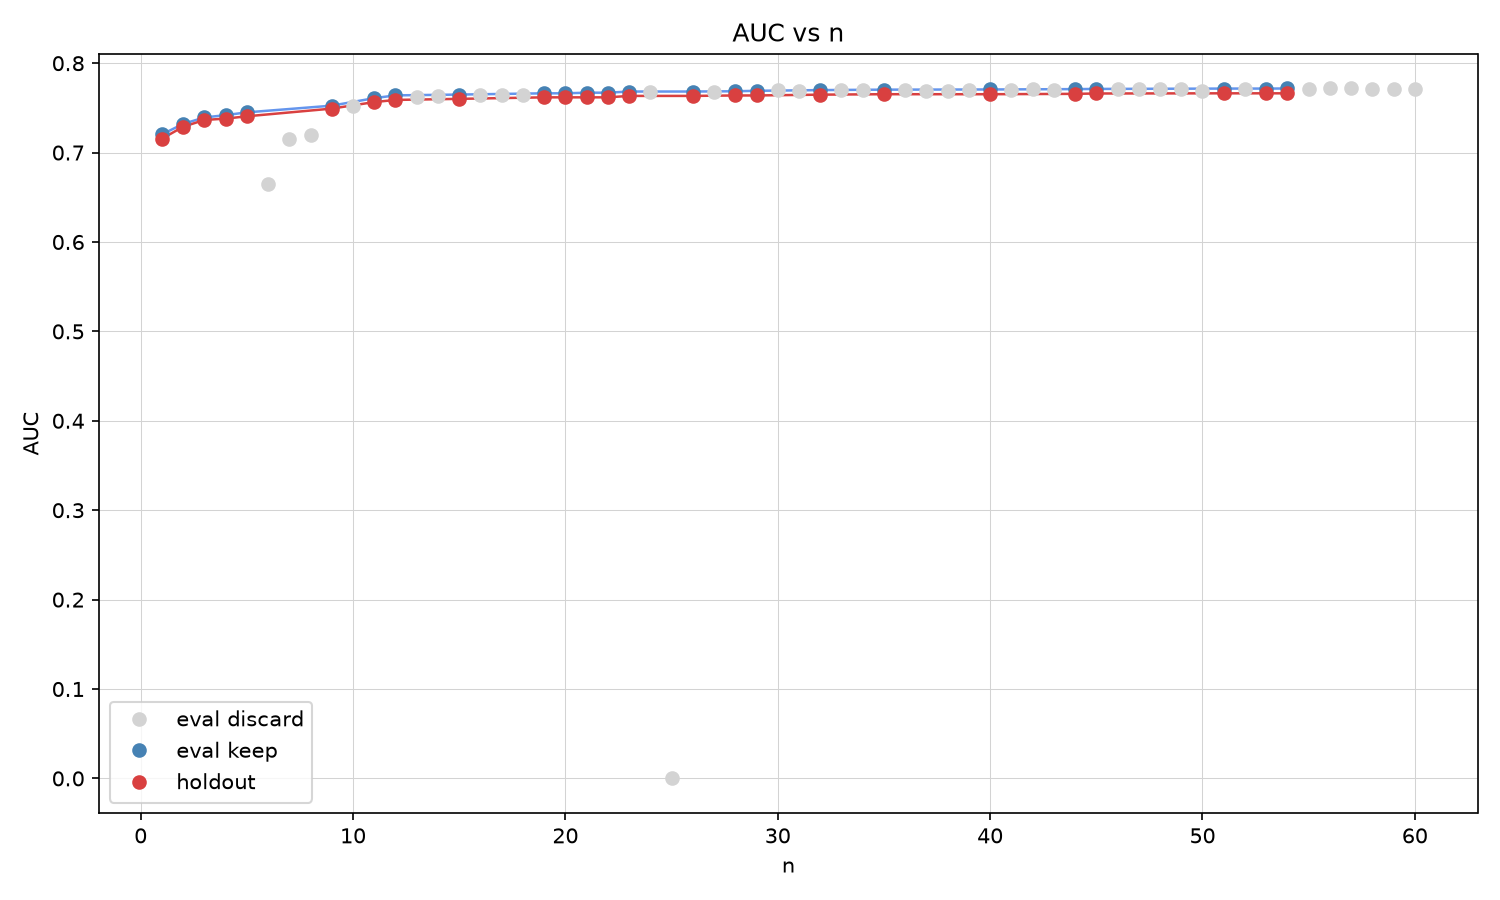
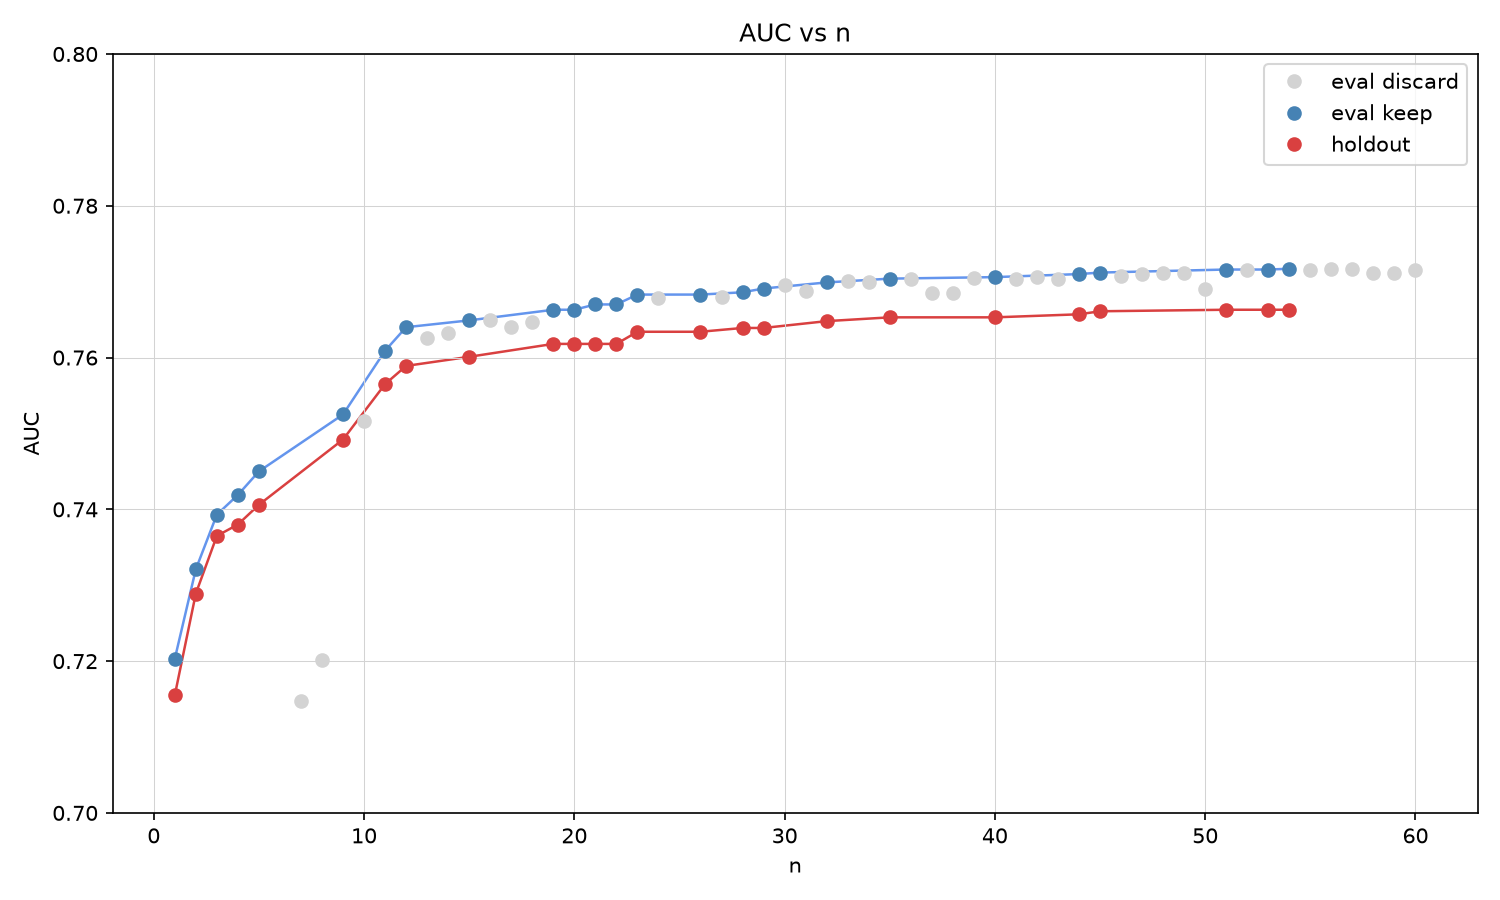
fix plot

diff --git a/plot_auc_history.py b/plot_auc_history.py
@@ -17,6 +17,7 @@ plt.plot(df.loc[keep, "n"], df.loc[keep, "holdout_auc"], color="#d94040", linewi
 plt.plot(df.loc[keep, "n"], df.loc[keep, "holdout_auc"], marker="o", color="#d94040", linestyle="none", label="holdout", zorder=2)
 plt.xlabel("n")
 plt.ylabel("AUC")
+plt.ylim(0.70, 0.80)
 plt.title("AUC vs n")
 plt.grid(True, color="lightgrey", linewidth=0.5)
 plt.legend()
